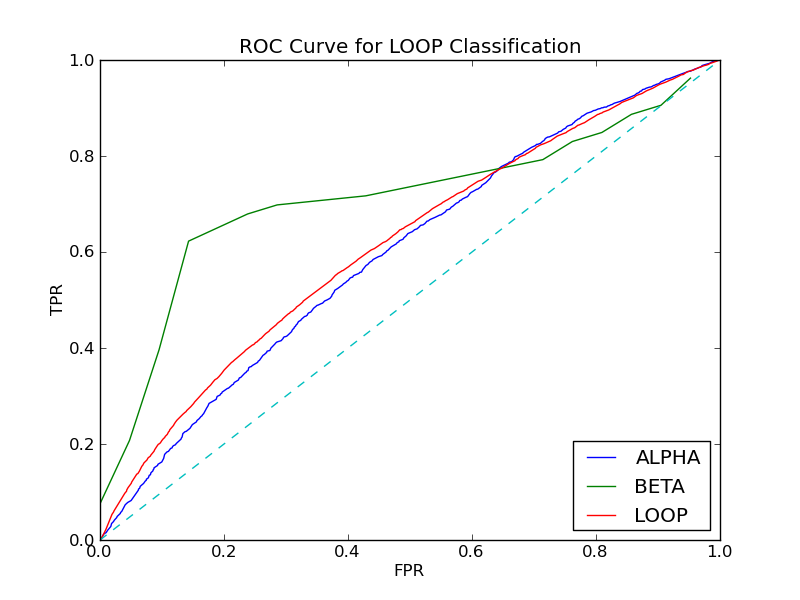
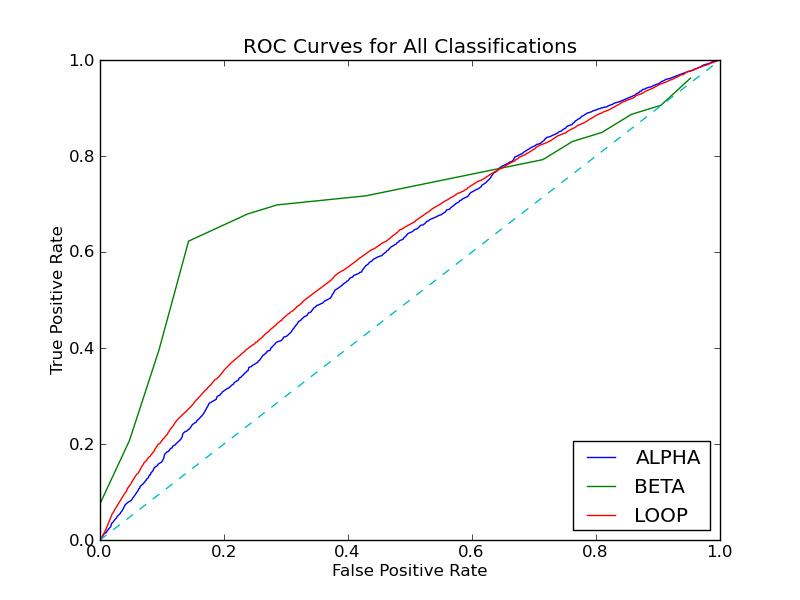
Fix graph lables

Changed region(s): [[0.2812, 0.06, 0.7188, 0.09], [0.0625, 0.36, 0.0938, 0.63], [0.4062, 0.93, 0.625, 0.96]]

diff --git a/postprocessors/clean_for_roc.py b/postprocessors/clean_for_roc.py
@@ -87,8 +87,8 @@ plot(all_curve_x[1], all_curve_y[1])
 plot(all_curve_x[2], all_curve_y[2])
 legend(("ALPHA", "BETA", "LOOP"), loc='lower right')
 plot([0, .5, 1],[0, .5, 1], linestyle='--')
-xlabel('FPR')
-ylabel('TPR')
-title('ROC Curve for ' + desired_class + ' Classification')
-savefig(output_folder + 'ROC_all.png')
+xlabel('False Positive Rate')
+ylabel('True Positive Rate')
+title('ROC Curves for All Classifications')
+savefig(output_folder + 'ROC_all_final_deep_net_100.png')
 show()
